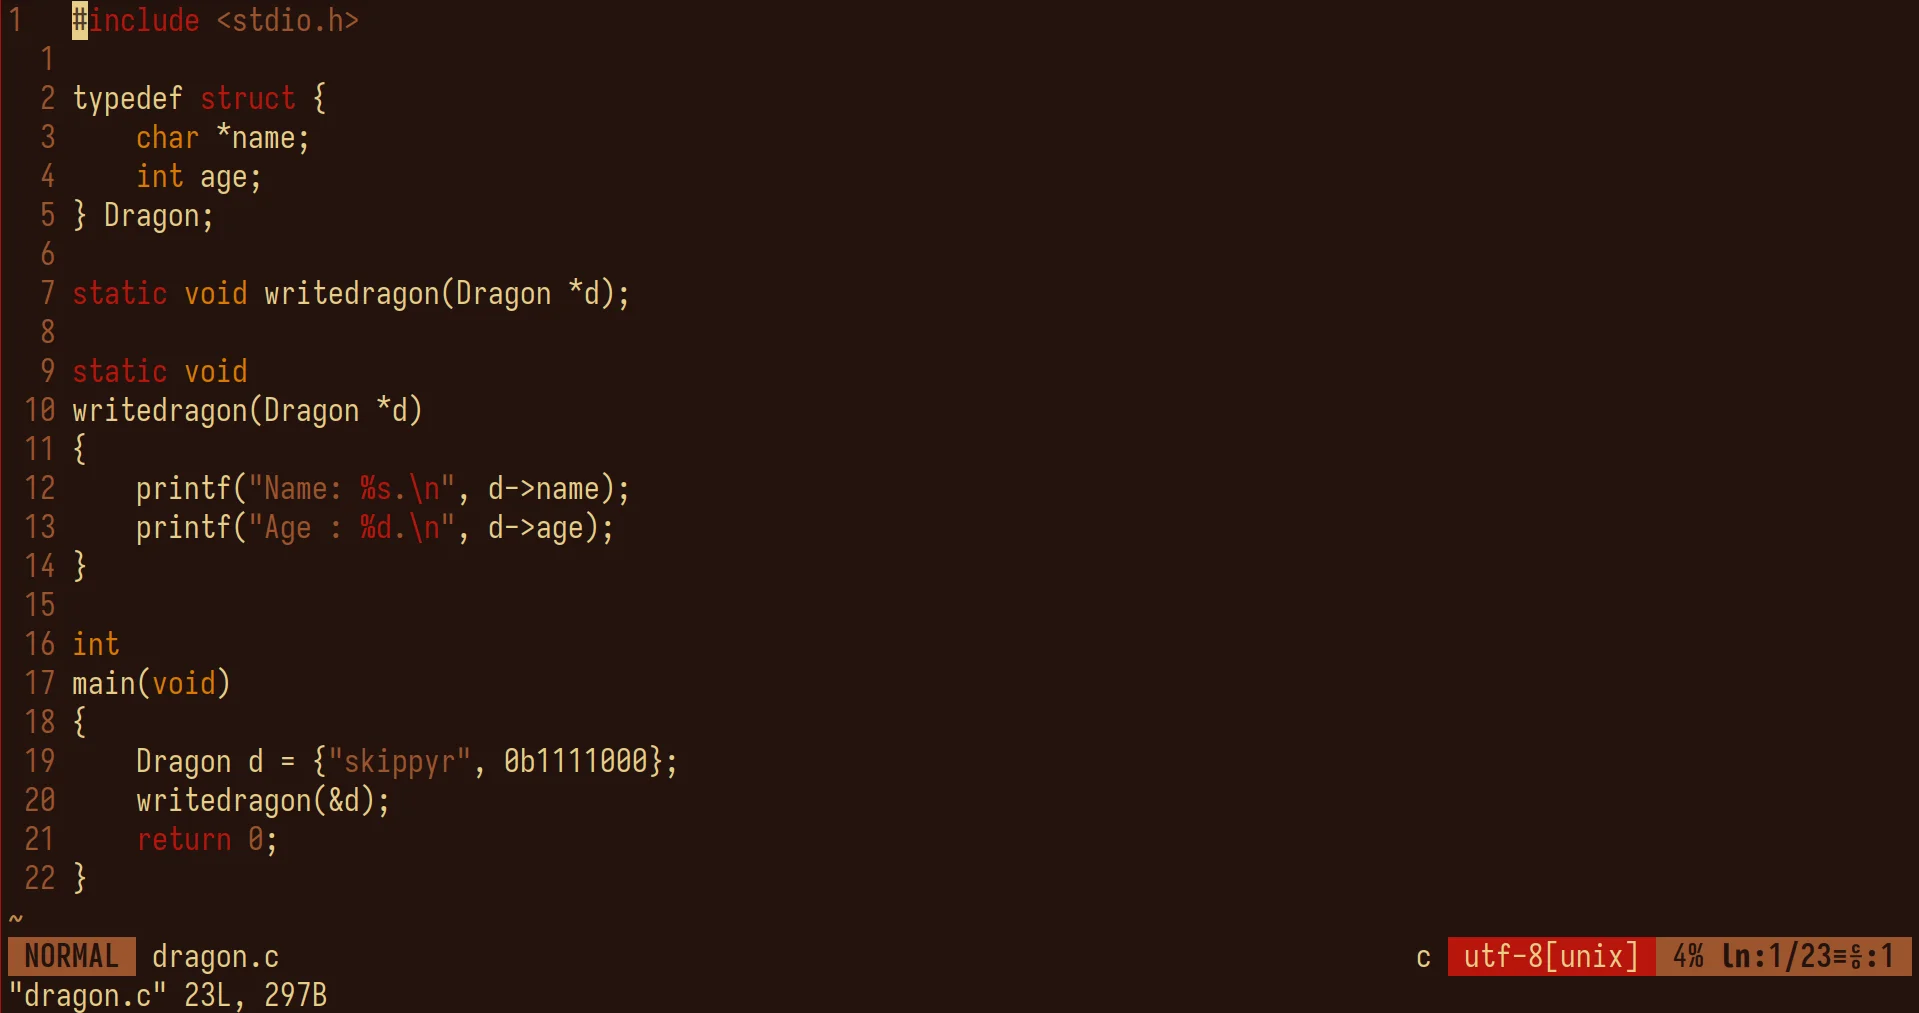
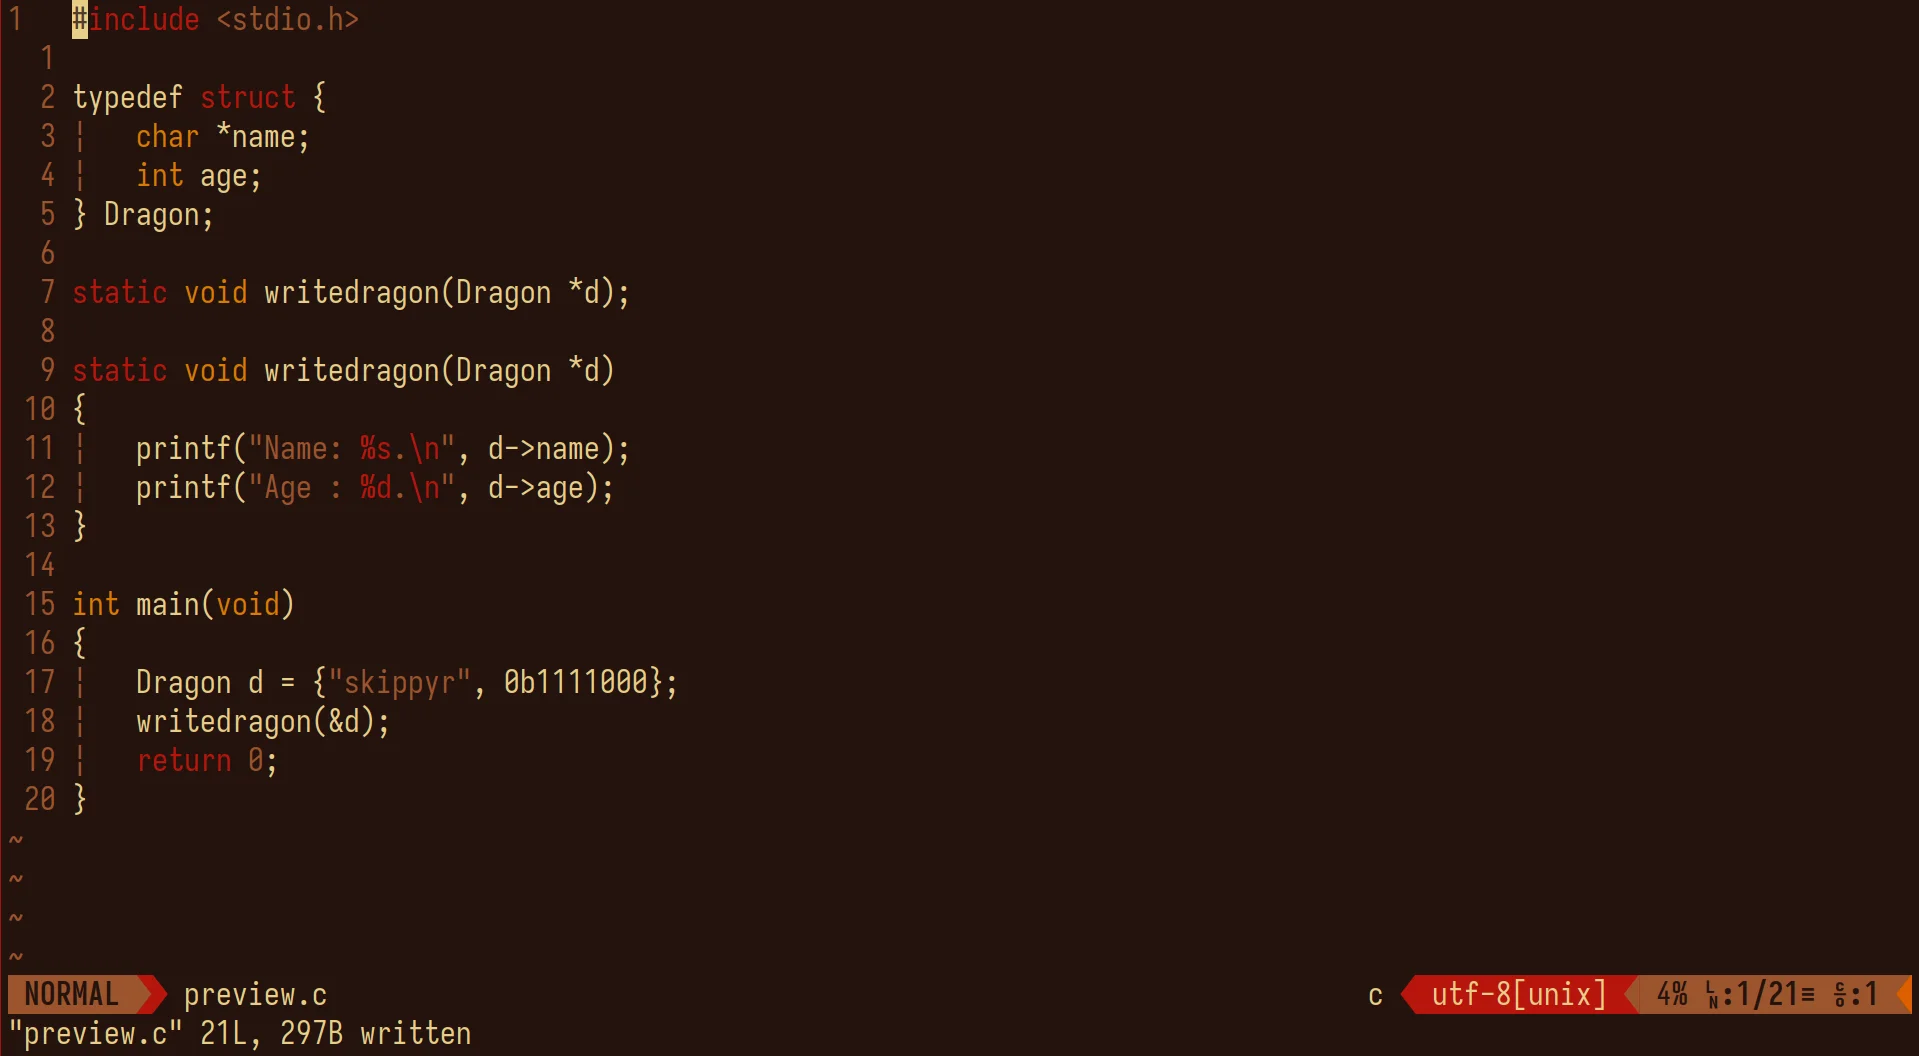
fix some highlights

diff --git a/tools/preview.c b/tools/preview.c
@@ -7,15 +7,13 @@ typedef struct {
 
 static void writedragon(Dragon *d);
 
-static void
-writedragon(Dragon *d)
+static void writedragon(Dragon *d)
 {
 	printf("Name: %s.\n", d->name);
 	printf("Age : %d.\n", d->age);
 }
 
-int
-main(void)
+int main(void)
 {
 	Dragon d = {"skippyr", 0b1111000};
 	writedragon(&d);
